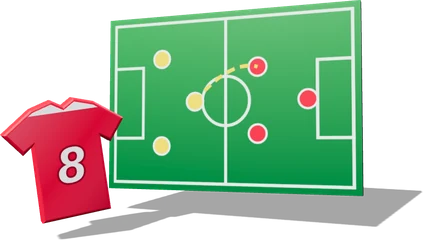
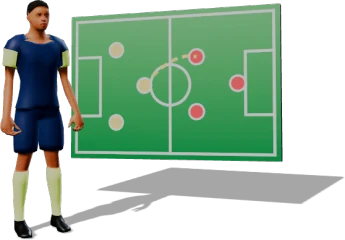
Плитки режимов с 3D-игроками: удар в «Моментах», тройка в «3 на 3», борьба за мяч в «11 на 11», бег с мячом в тренировках
- tools/art/modes.html: сцены с игроками из assets3d/player.glb (PlayerKit), ?view=<id> — просмотр сцены;
  майки-силуэты убраны, сцены сжаты по ширине — в маленьких плитках игроки крупнее.
- img/fcm/mode-*.webp перерисованы; в js/fcm.js ссылки с ?v=2 (кэш Telegram).
- PlayerKit.load(base) — путь до корня сайта для генераторов в tools/art.

diff --git a/tools/art/modes.html b/tools/art/modes.html
@@ -1,8 +1,9 @@
 <!doctype html>
-<!-- Генератор картинок режимов нового вида (27.10): сцены из деталей Arena3D (футболисты, ворота, мяч) при свете стадиона.
-     Запуск: node tools/art/render.js modes — сохраняет img/fcm/mode-*.webp (прозрачный фон) -->
+<!-- Генератор картинок режимов нового вида: 3D-игроки (assets3d/player.glb + js/playerkit.js), ворота, мяч, фишки.
+     Запуск: node tools/art/render.js modes — сохраняет img/fcm/mode-*.webp (прозрачный фон).
+     Посмотреть одну сцену: tools/art/modes.html?view=mom -->
 <html><head><meta charset="utf-8"><style>html,body{margin:0;background:transparent}</style></head>
-<body><script src="../../vendor/three.min.js"></script><script src="../../js/arena3d.js"></script><script>
+<body><script src="../../vendor/three.min.js"></script><script src="../../js/arena3d.js"></script><script src="../../js/playerkit.js"></script><script>
 'use strict';
 const { goal } = Arena3D.parts;
 let R = null;
@@ -20,47 +21,48 @@ function rig(w, h) {
 const L = (h) => new THREE.Color(h).convertSRGBToLinear(); // цвета в линейном пространстве — иначе блёклые
 const std = (h, o = {}) => new THREE.MeshStandardMaterial({ color: L(h), roughness: 0.35, metalness: 0.05, ...o });
 function ballM(r = 0.38) { const b = Arena3D.ball('classic', r); b.traverse((o) => { if (o.isMesh) { o.castShadow = true; o.material.color.convertSRGBToLinear(); } }); return b; }
-// майка: силуэт выдавлен с фаской, спереди — номер и полосы (текстура по рамке силуэта)
-function jersey(c1, c2, num, stripes) {
-  const sh = new THREE.Shape(); const P = [[-0.42, 1], [-0.16, 1.08], [0, 0.98], [0.16, 1.08], [0.42, 1], [0.78, 0.74], [0.6, 0.5], [0.44, 0.6], [0.44, -0.5], [-0.44, -0.5], [-0.44, 0.6], [-0.6, 0.5], [-0.78, 0.74]];
-  sh.moveTo(...P[0]); P.slice(1).forEach((q) => sh.lineTo(...q)); sh.closePath();
-  const geo = new THREE.ExtrudeGeometry(sh, { depth: 0.16, bevelEnabled: true, bevelThickness: 0.07, bevelSize: 0.05, bevelSegments: 6, curveSegments: 8 });
-  const c = document.createElement('canvas'); c.width = 512; c.height = 512; const g = c.getContext('2d');
-  g.fillStyle = c1; g.fillRect(0, 0, 512, 512);
-  if (stripes) { g.fillStyle = c2; for (let x = 40; x < 512; x += 110) g.fillRect(x, 0, 44, 512); }
-  g.fillStyle = c2; g.fillRect(0, 0, 512, 40); // воротник
-  const gl = g.createLinearGradient(0, 0, 512, 512); gl.addColorStop(0, 'rgba(255,255,255,.25)'); gl.addColorStop(0.5, 'rgba(255,255,255,0)'); gl.addColorStop(1, 'rgba(0,0,0,.25)'); g.fillStyle = gl; g.fillRect(0, 0, 512, 512);
-  g.font = 'italic 900 230px Arial Black, Arial'; g.textAlign = 'center'; g.textBaseline = 'middle'; g.lineWidth = 16; g.strokeStyle = 'rgba(0,0,0,.35)'; g.strokeText(num, 256, 300); g.fillStyle = stripes ? '#fff' : c2; g.fillText(num, 256, 300);
-  const tx = new THREE.CanvasTexture(c); tx.encoding = THREE.sRGBEncoding;
-  // UV лицевой стороны: силуэт (-0.78..0.78, -0.5..1.08) → 0..1; верх текстуры — ворот (v=1 вверху)
-  const uv = geo.attributes.uv; for (let i = 0; i < uv.count; i++) uv.setXY(i, (uv.getX(i) + 0.78) / 1.56, (uv.getY(i) + 0.5) / 1.58);
-  const m = new THREE.Mesh(geo, [new THREE.MeshStandardMaterial({ map: tx, roughness: 0.45 }), std(c1, { roughness: 0.5 })]); m.castShadow = true;
-  const gr = new THREE.Group(); m.position.z = -0.08; gr.add(m); return gr;
-}
 function cone(x, z, s = 1) { const g = new THREE.Group(); const c = new THREE.Mesh(new THREE.ConeGeometry(0.26, 0.62, 32), std('#ff6a00', { roughness: 0.4 })); c.position.y = 0.31; c.castShadow = true; g.add(c);
   const band = new THREE.Mesh(new THREE.CylinderGeometry(0.135, 0.175, 0.1, 32), std('#ffffff')); band.position.y = 0.36; g.add(band);
   const base = new THREE.Mesh(new THREE.BoxGeometry(0.62, 0.05, 0.62), std('#ff6a00')); base.position.y = 0.025; base.castShadow = true; g.add(base); g.position.set(x, 0, z); g.scale.setScalar(s); return g; }
 function goalM(sc) { const gl = goal(1); gl.traverse((o) => { if (o.isMesh && o.material.color) o.material.color.convertSRGBToLinear(); }); gl.scale.setScalar(sc); return gl; }
+// 3D-игрок: внешность и поза из PlayerKit; s — масштаб (игроки чуть крупнее мяча и ворот, как на плитке)
+let G = null;
+const ready = PlayerKit.load('../../').then((g) => (G = g));
+const KIT = {
+  red: { pattern: 'plain', c1: '#e3243f', c2: '#ffffff', shorts: '#ffffff', socks: '#e3243f' },
+  redS: { pattern: 'stripes', c1: '#e3243f', c2: '#ffffff', shorts: '#111111', socks: '#e3243f' },
+  blue: { pattern: 'plain', c1: '#1f5bd8', c2: '#ffffff', shorts: '#ffffff', socks: '#1f5bd8' },
+  navy: { pattern: 'sleeves', c1: '#11204f', c2: '#c6ff3d', shorts: '#11204f', socks: '#c6ff3d' },
+};
+function man(kit, look, pose, x, z, ry, s = 1) {
+  const p = PlayerKit.make(G, PlayerKit.kit(Object.assign({}, KIT[kit], look)), pose);
+  p.scale.multiplyScalar(s); p.position.set(x, 0, z); p.rotation.y = ry;
+  p.traverse((m) => { if (m.isMesh) { m.castShadow = true; m.frustumCulled = false; } });
+  return p;
+}
 const SCENES = {
-  dribble(s) { [[-1.8, 0], [-0.6, 0], [0.6, 0], [1.8, 0]].forEach(([x, z]) => s.add(cone(x, z, 0.9)));
+  dribble(s) { [[-1.8, 0], [-0.6, 0], [0.6, 0], [1.8, 0]].forEach(([x, z]) => s.add(cone(x, z, 0.8)));
     // линия слалома: светящаяся лента змейкой между фишками
     const pts = []; for (let i = 0; i <= 60; i++) { const x = -2.4 + i * 0.08; pts.push(new THREE.Vector3(x, 0.03, Math.sin((x + 2.4) * Math.PI / 1.2) * 0.55)); }
     const tube = new THREE.Mesh(new THREE.TubeGeometry(new THREE.CatmullRomCurve3(pts), 120, 0.04, 8), new THREE.MeshBasicMaterial({ color: L('#ffd23c') })); s.add(tube);
-    const b = ballM(0.42); b.position.set(-2.1, 0.42, 0.55); b.rotation.set(0.3, 0.6, 0); s.add(b);
-    return { pos: [-0.4, 2.8, 4.6], look: [0, 0.2, 0], fov: 38 }; },
+    s.add(man('blue', { number: 7, skin: 4, style: 'afro' }, 'run2', 0.9, 0.5, Math.PI / 2 - 0.5, 1.15));
+    const b = ballM(0.2); b.position.set(1.55, 0.2, 0.55); b.rotation.set(0.3, 0.6, 0); s.add(b);
+    return { pos: [-0.4, 2.8, 5.2], look: [0.3, 0.6, 0], fov: 38 }; },
   targets(s) { const gl = goalM(0.62); gl.position.set(0, 0, -1.4); gl.rotation.y = Math.PI / 2; s.add(gl);
     // мишени-кольца в углах ворот
-    [[-1.65, 1.15], [1.65, 1.15], [-1.65, 0.45]].forEach(([x, y], i) => { const g = new THREE.Group();
+    [[-1.65, 1.15], [1.65, 1.15], [-1.65, 0.45]].forEach(([x, y]) => { const g = new THREE.Group();
       [[0.42, '#ffffff'], [0.32, '#ff3d4f'], [0.2, '#ffffff'], [0.1, '#ff3d4f']].forEach(([r, c], k) => { const m = new THREE.Mesh(new THREE.CircleGeometry(r, 40), std(c, { roughness: 0.4, side: THREE.DoubleSide })); m.position.z = k * 0.004; g.add(m); });
       g.position.set(x, y, -1.3); s.add(g); });
-    const b = ballM(0.36); b.position.set(0.5, 0.36, 1.4); s.add(b);
-    return { pos: [0, 1.4, 4.4], look: [0, 0.9, -1], fov: 40 }; },
-  mom(s) { const gl = goalM(0.55); gl.position.set(2.2, 0, -1.6); gl.rotation.y = -Math.PI / 2 - 0.35; s.add(gl);
-    const b = ballM(0.42); b.position.set(0.6, 0.95, 0.4); b.rotation.set(0.5, 1, 0.2); s.add(b);
-    return { pos: [-0.2, 1.4, 4.6], look: [0.9, 0.85, -0.4], fov: 34 }; },
-  three(s) { [[-1.05, 0.1, -0.35, '#1f5bd8', '#ffffff', '7'], [0, 0.3, 0.2, '#1f5bd8', '#ffffff', '10'], [1.05, 0.1, -0.35, '#1f5bd8', '#ffffff', '9']].forEach(([x, y, z, a, c, n], i) => {
-    const j = jersey(a, c, n, false); j.position.set(x, 0.9 + y, z); j.rotation.set(0, (i - 1) * -0.35, (i - 1) * -0.05); s.add(j); });
-    return { pos: [0, 1.5, 5.6], look: [0, 1.15, 0], fov: 34 }; },
+    s.add(man('red', { number: 10, skin: 1, style: 'short' }, 'kick', 0.9, 1.4, Math.PI + 0.35, 1.1));   // спиной к нам — виден номер
+    const b = ballM(0.2); b.position.set(0.15, 0.75, 0.2); s.add(b);
+    return { pos: [0.3, 1.6, 5.4], look: [0.2, 0.95, -0.6], fov: 40 }; },
+  mom(s) { const gl = goalM(0.55); gl.position.set(2.4, 0, -1.8); gl.rotation.y = -Math.PI / 2 - 0.35; s.add(gl);
+    s.add(man('red', { number: 9, skin: 3, style: 'short' }, 'kick', 0.5, 1.0, 2.35, 1.15));
+    const b = ballM(0.22); b.position.set(2.75, 0.95, -1.15); b.rotation.set(0.5, 1, 0.2); s.add(b);
+    return { pos: [-0.2, 1.4, 4.9], look: [1.1, 0.9, -0.4], fov: 36 }; },
+  three(s) { [[-0.72, -0.35, 'stand', 0.45, 7, 1, 'short'], [0, 0.25, 'run', 0.05, 10, 4, 'afro'], [0.72, -0.35, 'stand', -0.45, 9, 2, 'medium']].forEach(([x, z, pose, ry, n, skin, style]) =>
+    s.add(man('blue', { number: n, skin, style }, pose, x, z, ry, 1)));
+    return { pos: [0, 1.4, 6.0], look: [0, 1.0, 0], fov: 34 }; },
   mgr(s) { const c = document.createElement('canvas'); c.width = 640; c.height = 440; const g = c.getContext('2d');
     const gg = g.createLinearGradient(0, 0, 0, 440); gg.addColorStop(0, '#2a9a4e'); gg.addColorStop(1, '#16703a'); g.fillStyle = gg; g.fillRect(0, 0, 640, 440);
     g.strokeStyle = '#eafff1'; g.lineWidth = 7; g.strokeRect(18, 18, 604, 404); g.beginPath(); g.moveTo(320, 18); g.lineTo(320, 422); g.stroke(); g.beginPath(); g.arc(320, 220, 60, 0, 7); g.stroke(); g.strokeRect(18, 130, 80, 180); g.strokeRect(542, 130, 80, 180);
@@ -70,16 +72,20 @@ const SCENES = {
     const tx = new THREE.CanvasTexture(c); tx.encoding = THREE.sRGBEncoding;
     const frame = std('#2b303a', { metalness: 0.6, roughness: 0.3 });
     const board = new THREE.Mesh(new THREE.BoxGeometry(2.6, 1.8, 0.1), [frame, frame, frame, frame, new THREE.MeshStandardMaterial({ map: tx, roughness: 0.35 }), frame]);
-    board.position.set(0.15, 1.2, 0); board.rotation.set(-0.12, -0.32, 0); board.castShadow = true; s.add(board);
-    const j = jersey('#e3243f', '#ffffff', '8', false); j.scale.setScalar(0.62); j.position.set(-1.25, 0.55, 0.7); j.rotation.set(0, 0.45, 0.12); s.add(j);
-    return { pos: [0, 1.4, 5.4], look: [-0.1, 1.0, 0], fov: 34 }; },
-  eleven(s) { const a = jersey('#e3243f', '#ffffff', '9', true); a.position.set(-0.72, 1.05, 0); a.rotation.set(0, 0.42, 0.08); s.add(a);
-    const b = jersey('#1f5bd8', '#ffffff', '11', false); b.position.set(0.72, 1.05, 0); b.rotation.set(0, -0.42, -0.08); s.add(b);
-    const ball = ballM(0.34); ball.position.set(0, 0.34, 0.9); s.add(ball);
-    return { pos: [0, 1.4, 5.4], look: [0, 1.0, 0], fov: 34 }; },
-  train(s) { [[-1.5, -0.4], [-0.5, 0.15], [0.5, -0.4], [1.5, 0.15]].forEach(([x, z]) => s.add(cone(x, z)));
-    const b = ballM(0.5); b.position.set(-0.15, 0.5, 1.15); b.rotation.set(0.4, 0.8, 0); s.add(b);
-    return { pos: [0.2, 2.2, 5.6], look: [0.1, 0.45, 0], fov: 34 }; },
+    board.scale.setScalar(0.8); board.position.set(0.35, 1.15, -0.3); board.rotation.set(-0.12, -0.32, 0); board.castShadow = true; s.add(board);
+    s.add(man('navy', { number: 8, skin: 2, style: 'buzz' }, 'stand', -0.8, 0.7, 0.55, 1));
+    return { pos: [0, 1.4, 5.6], look: [-0.1, 1.0, 0], fov: 34 }; },
+  eleven(s) { s.add(man('redS', { number: 9, skin: 2, style: 'short' }, 'run', -0.55, 0.05, 1.2, 1.05));
+    s.add(man('blue', { number: 11, skin: 5, style: 'afro' }, 'run2', 0.55, -0.25, -1.9, 1.05));
+    const ball = ballM(0.2); ball.position.set(0.05, 0.2, 0.55); s.add(ball);
+    return { pos: [0, 1.4, 5.6], look: [0, 0.95, 0], fov: 34 }; },
+  train(s) { [[-0.95, -0.4], [-0.3, 0.1], [0.35, -0.4], [1.0, 0.1]].forEach(([x, z]) => s.add(cone(x, z, 0.7)));
+    s.add(man('navy', { number: 17, skin: 3, style: 'medium' }, 'run', 0.3, 0.9, -0.9, 1.1));
+    const b = ballM(0.2); b.position.set(-0.25, 0.2, 1.25); b.rotation.set(0.4, 0.8, 0); s.add(b);
+    return { pos: [0.2, 2.0, 5.9], look: [0.1, 0.75, 0], fov: 34 }; },
 };
-window.renderMode = (id, w, h) => { const s = rig(w, h), v = SCENES[id](s); const cam = new THREE.PerspectiveCamera(v.fov, w / h, 0.1, 100); cam.position.set(...v.pos); cam.lookAt(...v.look); R.render(s, cam); return R.domElement.toDataURL('image/png'); };
+window.renderMode = async (id, w, h) => { await ready; const s = rig(w, h), v = SCENES[id](s); const cam = new THREE.PerspectiveCamera(v.fov, w / h, 0.1, 100); cam.position.set(...v.pos); cam.lookAt(...v.look); R.render(s, cam); return R.domElement.toDataURL('image/png'); };
+// ?view=mom — показать сцену в окне (для подбора кадра)
+const VIEW = new URLSearchParams(location.search).get('view');
+if (VIEW) { document.body.style.background = '#1a2433'; window.renderMode(VIEW, 900, 600).then(() => { document.title = 'ok ' + VIEW; }, (e) => { document.title = 'error ' + e; }); }
 </script></body></html>

diff --git a/js/fcm.js b/js/fcm.js
@@ -56,11 +56,11 @@ const FCM = (() => {
 
   // ---------- Играть (главная) ----------
   const MODES = [
-    { id: 'mom', t: 'Моменты', d: 'Короткие атаки: забей за несколько секунд', ico: 'img/fcm/mode-mom.webp', cls: 'big lime' },
-    { id: '3', t: 'Матч 3 на 3', d: 'Нападающий, защитник и вратарь из твоих карточек', ico: 'img/fcm/mode-three.webp', cls: 'blue' },
-    { id: 'mgr', t: 'Менеджер', d: '«Мой состав» играет сам, ты смотришь', act: 'squad', ico: 'img/fcm/mode-mgr.webp', cls: 'dark' },
-    { id: '11', t: '11 на 11 · тест', d: 'Полное поле, 5 минут', ico: 'img/fcm/mode-eleven.webp', cls: 'dark' },
-    { id: 'train', t: 'Тренировки', d: 'Удары, дриблинг, штрафные', ico: 'img/fcm/mode-train.webp', cls: 'dark' },
+    { id: 'mom', t: 'Моменты', d: 'Короткие атаки: забей за несколько секунд', ico: 'img/fcm/mode-mom.webp?v=2', cls: 'big lime' },
+    { id: '3', t: 'Матч 3 на 3', d: 'Нападающий, защитник и вратарь из твоих карточек', ico: 'img/fcm/mode-three.webp?v=2', cls: 'blue' },
+    { id: 'mgr', t: 'Менеджер', d: '«Мой состав» играет сам, ты смотришь', act: 'squad', ico: 'img/fcm/mode-mgr.webp?v=2', cls: 'dark' },
+    { id: '11', t: '11 на 11 · тест', d: 'Полное поле, 5 минут', ico: 'img/fcm/mode-eleven.webp?v=2', cls: 'dark' },
+    { id: 'train', t: 'Тренировки', d: 'Удары, дриблинг, штрафные', ico: 'img/fcm/mode-train.webp?v=2', cls: 'dark' },
   ];
   function play() {
     const jg = Cards.get('JG:nicolas-jackson');
@@ -195,10 +195,10 @@ const FCM = (() => {
   // Экран события как в FC Mobile (27.10): вкладки сверху; слева логотип события, описание и главная награда,
   // справа путь главы «пазлом» (змейкой: 1→2→3, вниз, 4→5→6). Нажатие на узел — окно задания, как в FC.
   const TRAIN = [
-    { t: 'Основы', d: 'Бег, пас, удар', lv: 'Новичок', go: { train: 'basics' }, img: 'img/fcm/mode-train.webp', c: '#19d3b0' },
-    { t: 'Дриблинг', d: 'Гонка через фишки', lv: 'Любитель', go: { train: 'dribble' }, img: 'img/fcm/mode-dribble.webp', c: '#ffb23c' },
-    { t: 'Мишени', d: 'Штрафные по мишеням', lv: 'Профи', go: { train: 'targets' }, img: 'img/fcm/mode-targets.webp', c: '#ff4f66' },
-    { t: 'Моменты', d: 'Забей в коротких атаках', lv: 'Матч', go: { mode: 'mom' }, img: 'img/fcm/mode-mom.webp', c: '#c6ff3d' },
+    { t: 'Основы', d: 'Бег, пас, удар', lv: 'Новичок', go: { train: 'basics' }, img: 'img/fcm/mode-train.webp?v=2', c: '#19d3b0' },
+    { t: 'Дриблинг', d: 'Гонка через фишки', lv: 'Любитель', go: { train: 'dribble' }, img: 'img/fcm/mode-dribble.webp?v=2', c: '#ffb23c' },
+    { t: 'Мишени', d: 'Штрафные по мишеням', lv: 'Профи', go: { train: 'targets' }, img: 'img/fcm/mode-targets.webp?v=2', c: '#ff4f66' },
+    { t: 'Моменты', d: 'Забей в коротких атаках', lv: 'Матч', go: { mode: 'mom' }, img: 'img/fcm/mode-mom.webp?v=2', c: '#c6ff3d' },
   ];
   const goAttr = (go) => (go.act ? `data-act="${go.act}"` : go.train ? `data-fm-train="${go.train}"` : `data-fm-mode="${go.mode}"`);
   function events() {

diff --git a/js/playerkit.js b/js/playerkit.js
@@ -229,16 +229,16 @@ const PlayerKit = (() => {
   const MODEL = 'assets3d/player.glb?v=20261028';
   let loading = null;
   const addScript = (src) => new Promise((ok, bad) => { const s = document.createElement('script'); s.src = src; s.onload = ok; s.onerror = bad; document.head.appendChild(s); });
-  function load() {
+  function load(base = '') {   // base — путь до корня сайта (для генераторов в tools/art: '../../')
     if (loading) return loading;
     loading = (window.THREE ? Promise.resolve() : Promise.reject(new Error('three.js не загружен')))
-      .then(() => THREE.GLTFLoader || addScript('vendor/three-ext/GLTFLoader.js'))
-      .then(() => THREE.DRACOLoader || addScript('vendor/three-ext/DRACOLoader.js'))
-      .then(() => THREE.SkeletonUtils || addScript('vendor/three-ext/SkeletonUtils.js'))
+      .then(() => THREE.GLTFLoader || addScript(base + 'vendor/three-ext/GLTFLoader.js'))
+      .then(() => THREE.DRACOLoader || addScript(base + 'vendor/three-ext/DRACOLoader.js'))
+      .then(() => THREE.SkeletonUtils || addScript(base + 'vendor/three-ext/SkeletonUtils.js'))
       .then(() => new Promise((ok, bad) => {
-        const draco = new THREE.DRACOLoader(); draco.setDecoderPath('vendor/draco/');
+        const draco = new THREE.DRACOLoader(); draco.setDecoderPath(base + 'vendor/draco/');
         const gl = new THREE.GLTFLoader(); gl.setDRACOLoader(draco);
-        gl.load(MODEL, ok, undefined, bad);
+        gl.load(base + MODEL, ok, undefined, bad);
       }));
     loading.catch(() => { loading = null; });   // сеть подвела — в следующий раз попробуем снова
     return loading;

diff --git a/index.html b/index.html
@@ -739,7 +739,7 @@
 <script defer src="js/xdraft/engine.js?v=20261014-frv1"></script>
 <script defer src="js/xdraft/ui.js?v=20261015-fit2"></script>
 <script defer src="js/arena3d.js?v=20261028-p1"></script>
-<script defer src="js/playerkit.js?v=20261028-p1"></script>
+<script defer src="js/playerkit.js?v=20261028-m1"></script>
 <script defer src="js/xdraft/match.js?v=20261016-trk"></script>
 <script defer src="js/squad.js?v=20261016-trk"></script>
 <script defer src="js/football.js?v=20261027-mom1"></script>
@@ -809,7 +809,7 @@
 <script defer src="js/board.js?v=20261014-social1"></script>
 <script defer src="js/track.js?v=20261016-trk"></script>
 <script defer src="js/app.js?v=20261019-fb5"></script>
-<script defer src="js/fcm.js?v=20261028-p1"></script>
+<script defer src="js/fcm.js?v=20261028-m1"></script>
 <script>
 /* Автообновление: Telegram держит старую копию игры. При запуске (и при возврате в игру на главной) сверяем
    версии файлов (?v=…) в свежем index.html с текущими; если вышло обновление — перезагружаем с обходом кэша.

diff --git a/docs/product-plan.md b/docs/product-plan.md
@@ -238,3 +238,10 @@ socks, boots, eyes, brows, hair_*`; причёски — сетки `JG_Hair_sho
 Свой маленький WebGL-слой поверх (`walkMan` в `js/packs.js`), после выхода контекст освобождается. Модель начинает
 грузиться, как только понятно, что выпало золото (`prepMan`); не успела за 1,5 с, нет WebGL или «меньше движения» —
 шаг пропускается. У героев со своим выходом (`model3d`/`walkout`, Балотелли) — не показывается.
+
+**Плитки режимов с 3D-игроками (28.10).** `tools/art/modes.html` ставит в сцены игроков из `assets3d/player.glb`
+(`PlayerKit.load('../../')`): «Моменты» — удар в угол ворот (спиной, номер 9), «3 на 3» — тройка в синем,
+«11 на 11» — борьба за мяч красных и синих, «Менеджер» — игрок у тактической доски, «Тренировки» и «Дриблинг» —
+бег с мячом между фишками, «Мишени» — удар по мишеням. Сцены сжаты по ширине — в маленьких плитках игроки крупнее.
+Посмотреть сцену: `tools/art/modes.html?view=mom`; перерисовать — как раньше `node tools/art/render.js modes`.
+Ссылки на картинки в `js/fcm.js` с `?v=2` — иначе Telegram покажет старые из кэша.
